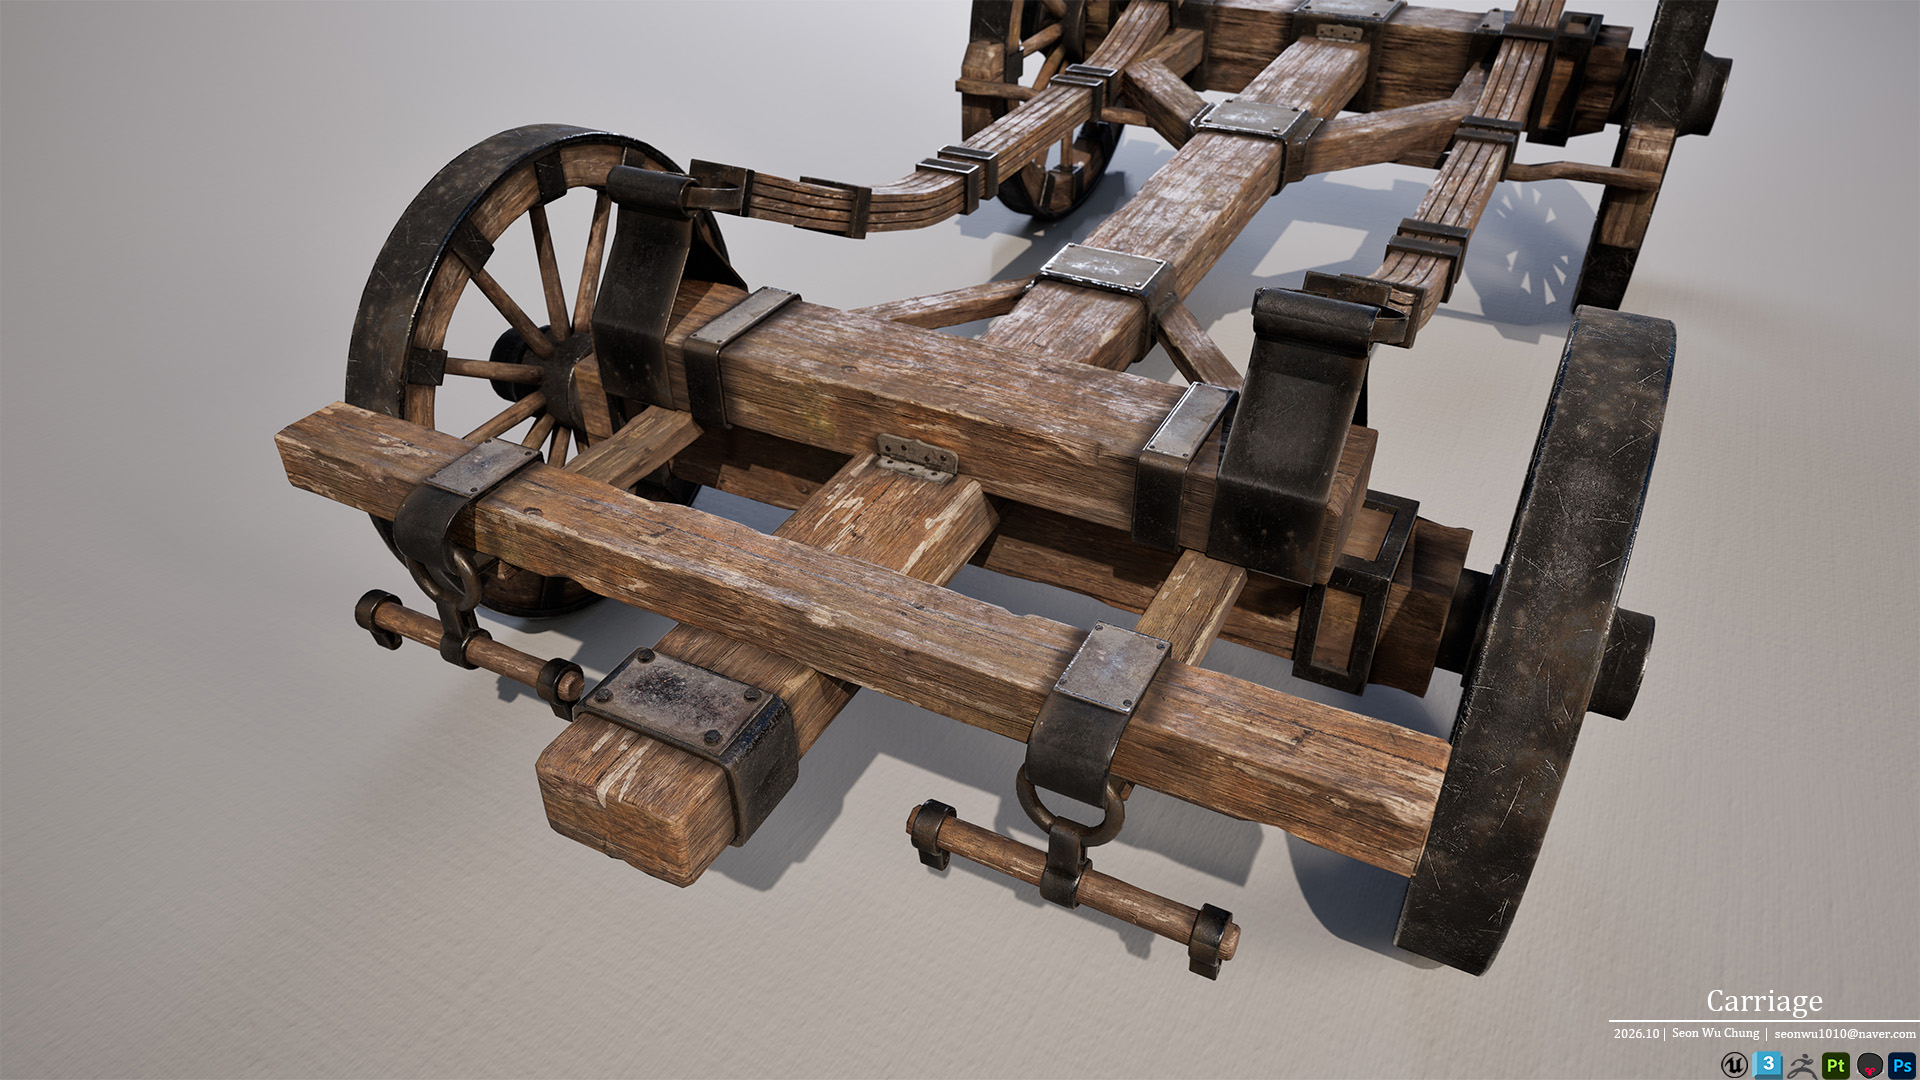
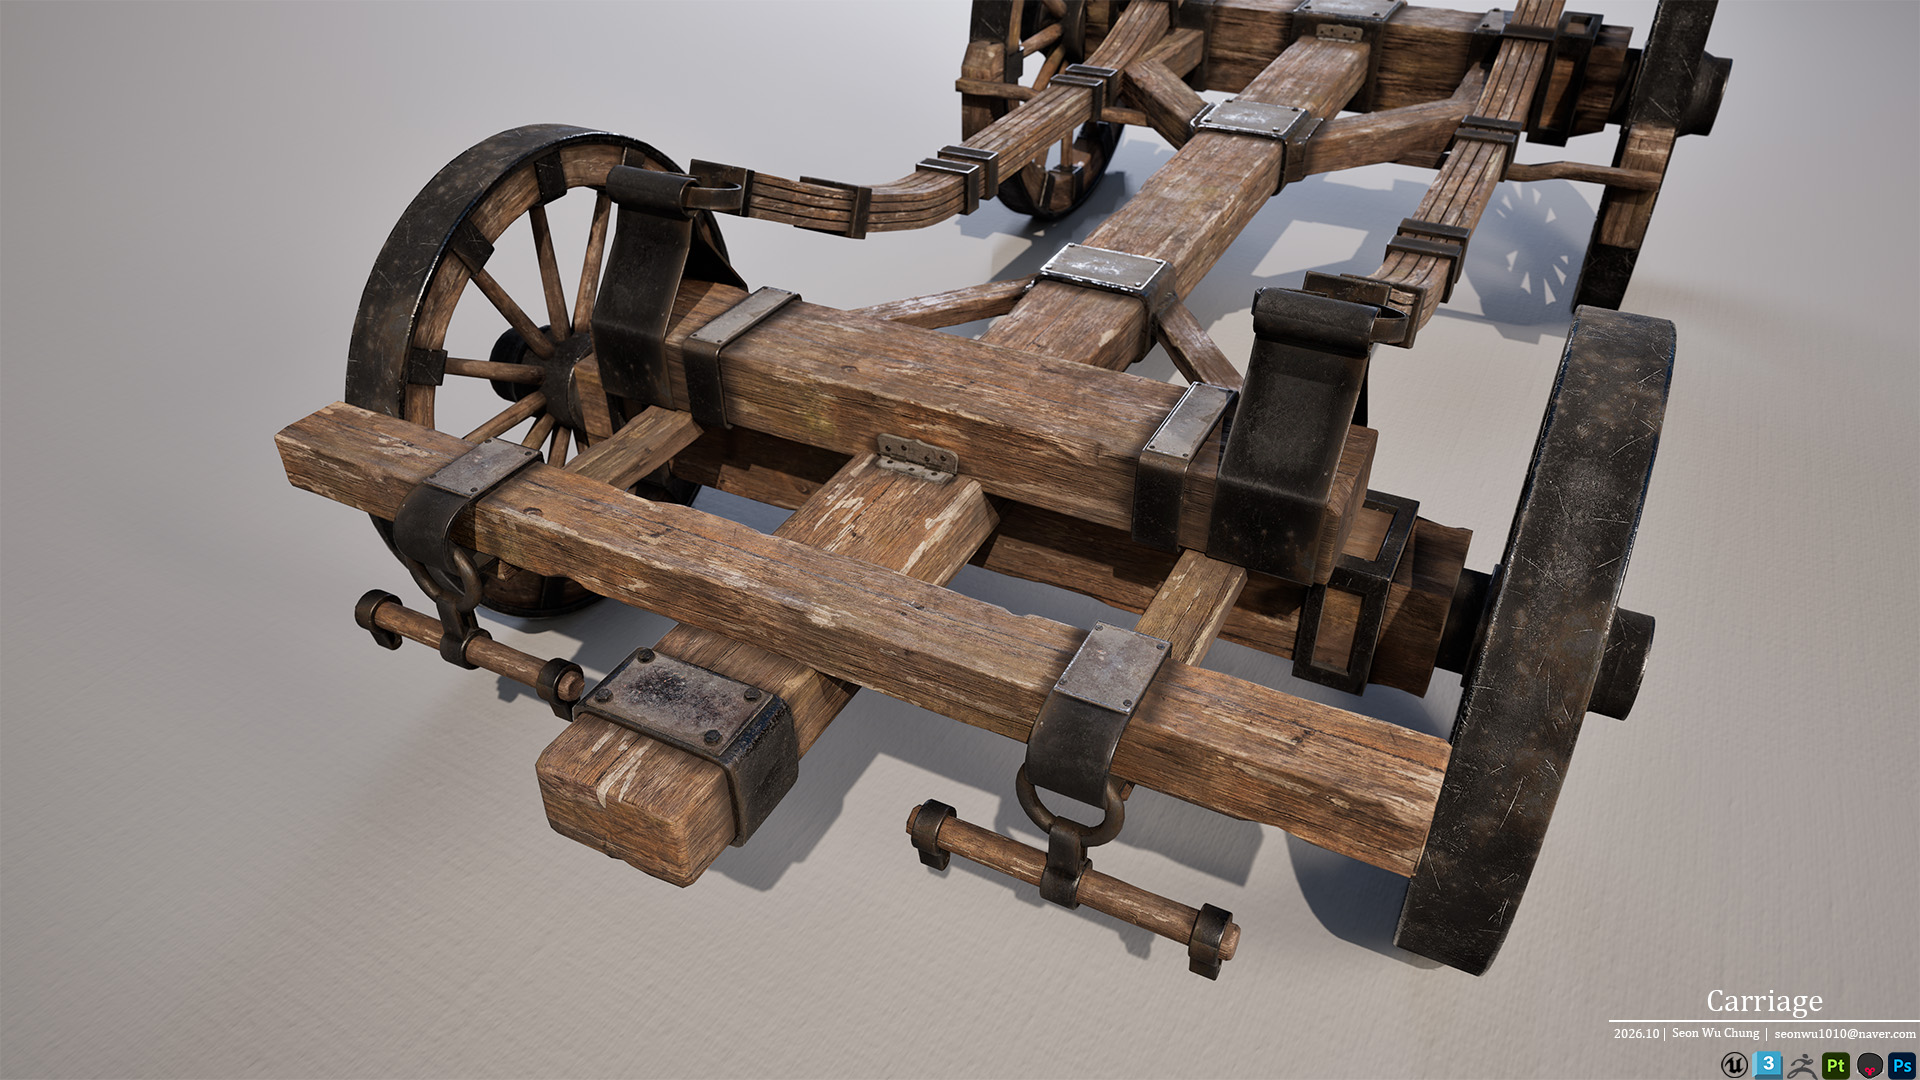
Refresh Carriage photos 11 through 13 and cache revisions

diff --git a/app.js b/app.js
@@ -71,9 +71,9 @@ const imageRevisions = {
   "Personal/202610_Carriage/8.jpg": "cca46adbcb3b",
   "Personal/202610_Carriage/9.jpg": "6bfec0b28c4e",
   "Personal/202610_Carriage/10.jpg": "c34369a92462",
-  "Personal/202610_Carriage/11.jpg": "09ac4f9fefe6",
-  "Personal/202610_Carriage/12.jpg": "60c3b914ac26",
-  "Personal/202610_Carriage/13.jpg": "fc7234d4be17",
+  "Personal/202610_Carriage/11.jpg": "f2ee5c8f8e93",
+  "Personal/202610_Carriage/12.jpg": "93560bfb59fa",
+  "Personal/202610_Carriage/13.jpg": "ee4882e1d022",
   "Personal/202610_Carriage/14.jpg": "451e955ba87b",
   "Personal/202606_Sofa/1.jpg": "8d1945b424ac",
   "Personal/202606_Sofa/2.jpg": "8ce1ff4d3497",

diff --git a/index.html b/index.html
@@ -83,7 +83,7 @@
       </aside>
     </dialog>
     <div id="toast" class="toast" role="status" aria-live="polite"></div>
-    <script src="app.js?v=carriage-photo-v10"></script>
+    <script src="app.js?v=carriage-photo-v11"></script>
     <script src="https://www.youtube.com/iframe_api" async></script>
   </body>
 </html>
